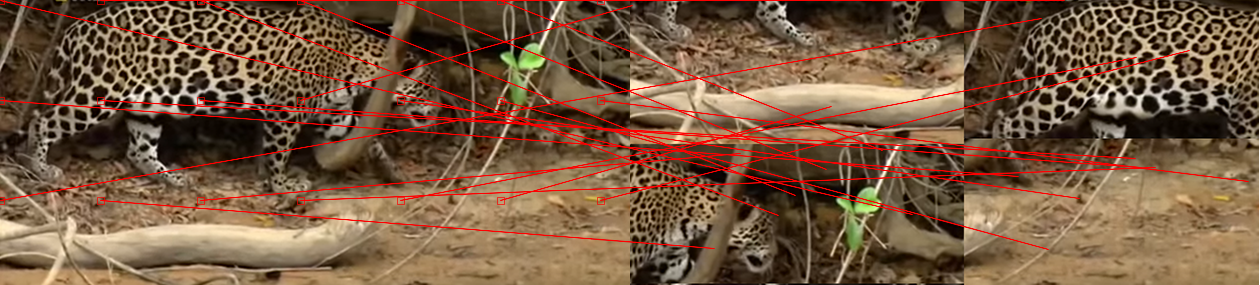
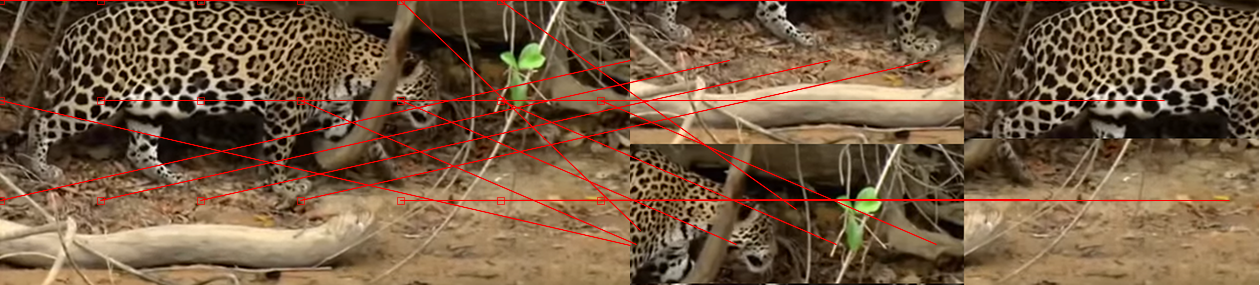
roughly finished

diff --git a/code/algorithm.py b/code/algorithm.py
@@ -81,46 +81,92 @@ def propagation_and_random_search(source_patches, target_patches,
     #############################################
     ###  PLACE YOUR CODE BETWEEN THESE LINES  ###
     #############################################
-    random_enabled = True
-    propagation_enabled = True
     row = source_patches.shape[0]
     column = source_patches.shape[1]
-    w = np.array([row, column])
-    source_patches = np.nan_to_num(source_patches)
-    target_patches = np.nan_to_num(target_patches)
-    source_index = make_coordinates_matrix(source_patches.shape)
-    old_x = np.clip((source_index + new_f)[:,:,0],0,row-1)
-    old_y = np.clip((source_index + new_f)[:,:,1],0,column-1)
-    old_patches = target_patches[old_x, old_y]
-    D = np.sum(np.sum((old_patches - source_patches)**2, axis = 3), axis = 2)
 
-    # Propagation
-    if propagation_enabled:
-        if odd_iteration:
-            for i in range(0,row):
-                for j in range(0,column):
+    i = 0
+    while(w * alpha ** i >= 1):
+                i += 1
+    while_iters = i
+
+    # initialize array_for_random_offset to accelerate comparison in random search 
+    array_for_random_offset = np.zeros((while_iters+1,2)).astype(int)
+
+    # store search radius in array_for_random_offset, first spot is center of the search region 
+    i = 1
+    while(i < while_iters+1):
+            cur_R = np.array([random.uniform(-1, 1), random.uniform(-1, 1)])
+            array_for_random_offset[i,:] = w * alpha ** i * cur_R
+            i +=1
+
+    # initialize algorithm properties
+    random_enabled = True
+    propagation_enabled = True
+    source_patches = np.nan_to_num(source_patches)
+    target_patches = np.nan_to_num(target_patches)    
+
+    # make ordered index of the image
+    source_index = make_coordinates_matrix(source_patches.shape)
+
+    # varible whose name includes 'window' stores the array of pixels we need to compare      
+    # Scan from left to right, top to left
+    if odd_iteration:
+        for i in range(0,row):
+            for j in range(0,column):
+                # Propogation
+                if propagation_enabled:
+                    # if first pixel of the image, nothing to compare with
                     if(i==0 and j==0):
                         break
+                    # if pixles in the first row of the image, only compare to its left
                     elif(i==0):
                         source_window_index = np.asarray((source_index[i,j-1],source_index[i,j]))
                         window_f = np.asarray((new_f[i,j-1],new_f[i,j]))
+                    # if pixles in the first column of the image, only compare to its top
                     elif(j==0):
                         source_window_index = np.asarray((source_index[i-1,j],source_index[i,j]))
                         window_f = np.asarray((new_f[i-1,j],new_f[i,j]))
+                    # compare to the one above and the one on the left
                     else:
                         source_window_index = np.asarray((source_index[i,j-1],source_index[i-1,j],source_index[i,j]))
                         window_f = np.asarray((new_f[i,j-1],new_f[i-1,j],new_f[i,j]))
                     target_window_index = source_window_index + window_f
+                    # clip the index afte adding offset to its boundaries
                     target_window_x = np.clip(target_window_index[:,0],0,row-1)
                     target_window_y = np.clip(target_window_index[:,1],0,column-1)
                     source_window = source_patches[source_window_index[:,0],source_window_index[:,1]]
                     target_window = target_patches[target_window_x,target_window_y]
+                    # calculate the difference in density of those pixels
                     window_D = np.sum(np.sum((target_window - source_window)**2, axis = 2), axis = 1)
+                    # update the offset per pixel if better result is found
                     min_index = np.argmin(window_D)
                     new_f[i,j] = window_f[min_index]
-        else:
-            for i in range(row-1,0,-1):
-                for j in range(column-1,0,-1):
+        
+                # Random Search
+                if random_enabled:
+                    # populate the offset array for comparison
+                    source_window_index = np.repeat(source_index[i,j].reshape((1,2)), while_iters+1,axis=0)
+                    window_f = array_for_random_offset + new_f[i,j]
+                    # clip the index afte adding offset to its boundaries
+                    target_window_x = np.clip((source_window_index + window_f)[:,0],0,row-1)
+                    target_window_y = np.clip((source_window_index + window_f)[:,1],0,column-1)
+                    # correct the offset array such that after adding offset no pixels will potentially cross the 
+                    # boundaries
+                    window_f[:,0] = target_window_x - source_window_index[:,0]
+                    window_f[:,1] = target_window_y - source_window_index[:,1]
+                    source_window = source_patches[source_window_index[:,0],source_window_index[:,1]]
+                    target_window = target_patches[target_window_x,target_window_y]
+                    # calculate the difference in density of those pixels
+                    window_D = np.sum(np.sum((target_window - source_window)**2, axis = 2), axis = 1)
+                    # update the offset per pixel if better result is found
+                    min_index = np.argmin(window_D)
+                    new_f[i,j] = window_f[min_index]
+    # Scan in reversed order and pixel picked for comparison in propogation is the one below and the one on the right
+    # the rest has similar structure as above, so comments omitted
+    else:
+        for i in range(row-1,-1,-1):
+            for j in range(column-1,-1,-1):
+                if propagation_enabled:
                     if(i==row-1 and j==column-1):
                         break
                     elif(i==row-1):
@@ -141,28 +187,19 @@ def propagation_and_random_search(source_patches, target_patches,
                     min_index = np.argmin(window_D)
                     new_f[i,j] = window_f[min_index]
 
-    # Random Search
-    if random_enabled:
-        i = 0
-        cur_R = np.array([random.uniform(-1, 1), random.uniform(-1, 1)])
-        while(w[0] * alpha ** i >= 1 and w[1] * alpha ** i >= 1):
-            temp_f = (new_f + w * alpha ** i * cur_R).astype(int)
-            temp_target_x = np.clip((source_index + temp_f)[:,:,0],0,row-1)
-            temp_target_y = np.clip((source_index + temp_f)[:,:,1],0,column-1)
-            temp_f[:,:,0] = temp_target_x - source_index[:,:,0]
-            temp_f[:,:,1] = temp_target_y - source_index[:,:,1]
-            temp_target_patches = target_patches[temp_target_x, temp_target_y]
-            temp_D = np.sum(np.sum((temp_target_patches - source_patches)**2, axis=3), axis=2)
-            difference = temp_D - D
-            new_f[np.where(difference<0)] = temp_f[np.where(difference<0)]
-            old_x = np.clip((source_index + new_f)[:,:,0],0,row-1)
-            old_y = np.clip((source_index + new_f)[:,:,1],0,column-1)
-            old_patches = target_patches[old_x, old_y]
-            D = np.sum(np.sum((old_patches - source_patches)**2, axis = 3), axis = 2)
-            cur_R = np.array([random.uniform(-1, 1), random.uniform(-1, 1)])
-            i += 1;
-
-    best_D = D
+                if random_enabled:
+                    source_window_index = np.repeat(source_index[i,j].reshape((1,2)), while_iters+1,axis=0)
+                    window_f = array_for_random_offset + new_f[i,j]
+                    target_window_x = np.clip((source_window_index + window_f)[:,0],0,row-1)
+                    target_window_y = np.clip((source_window_index + window_f)[:,1],0,column-1)
+                    window_f[:,0] = target_window_x - source_window_index[:,0]
+                    window_f[:,1] = target_window_y - source_window_index[:,1]
+                    source_window = source_patches[source_window_index[:,0],source_window_index[:,1]]
+                    target_window = target_patches[target_window_x,target_window_y]
+                    window_D = np.sum(np.sum((target_window - source_window)**2, axis = 2), axis = 1)
+                    min_index = np.argmin(window_D)
+                    new_f[i,j] = window_f[min_index]
+                    
     #############################################
 
     return new_f, best_D, global_vars
